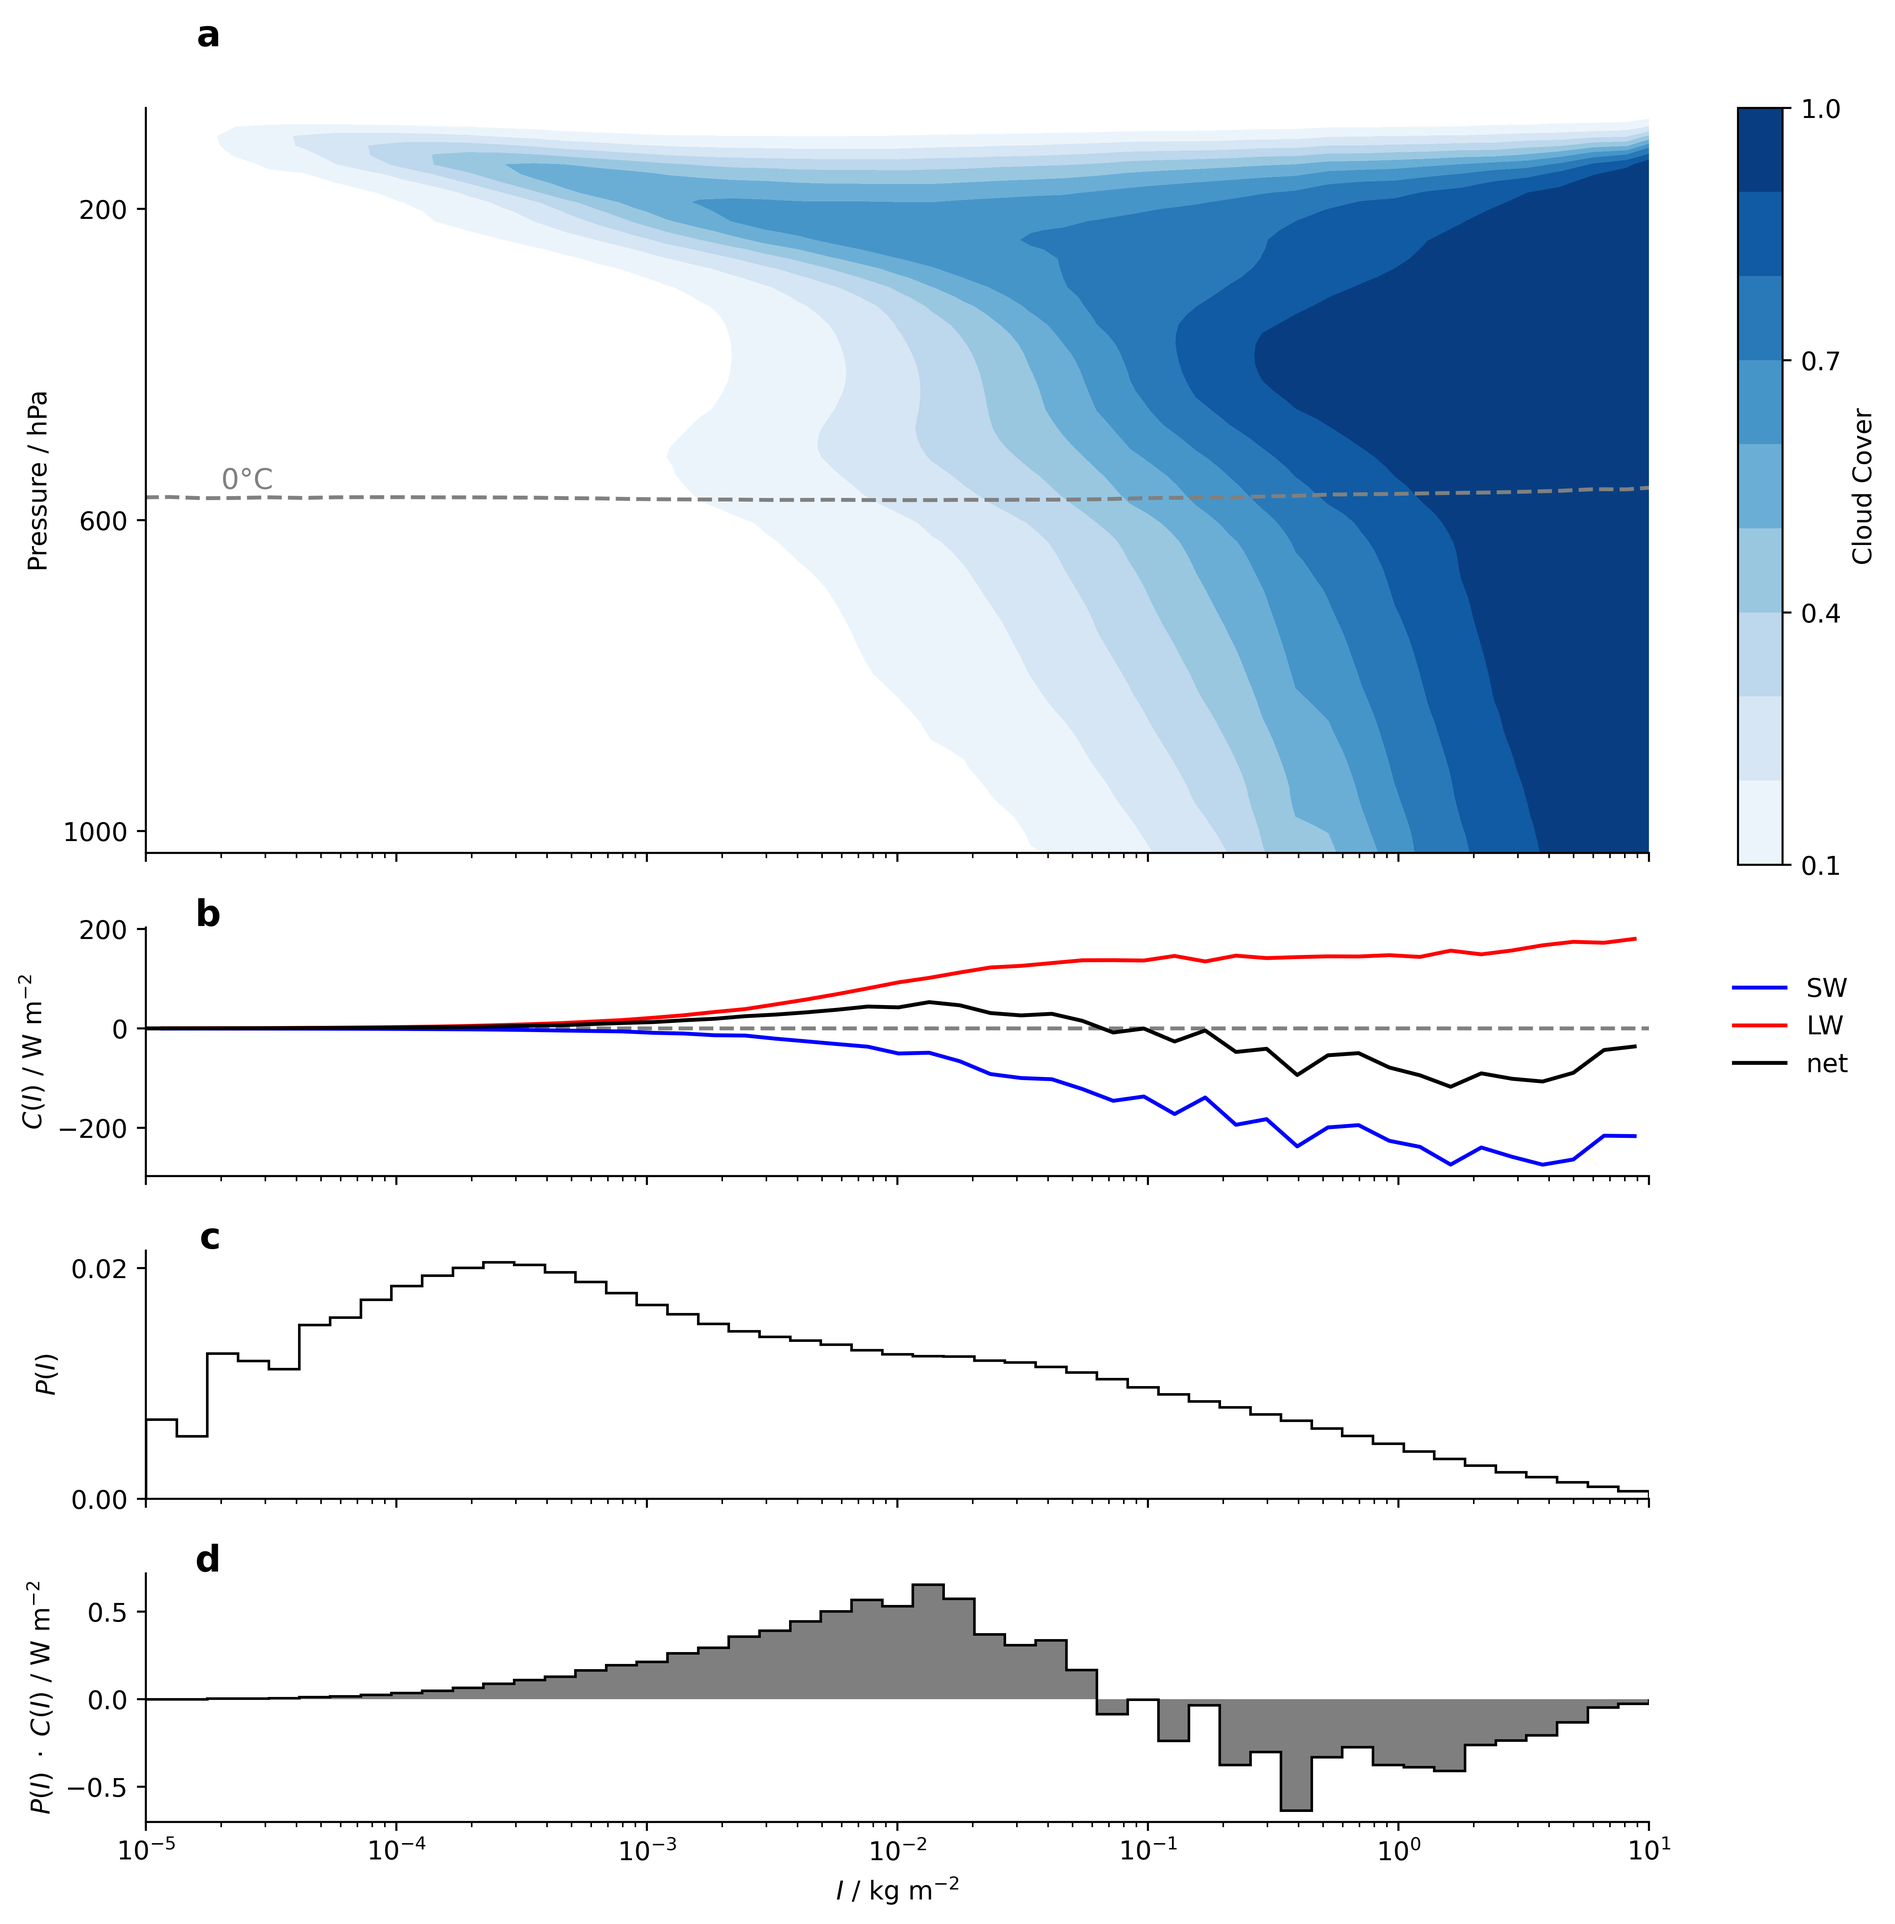
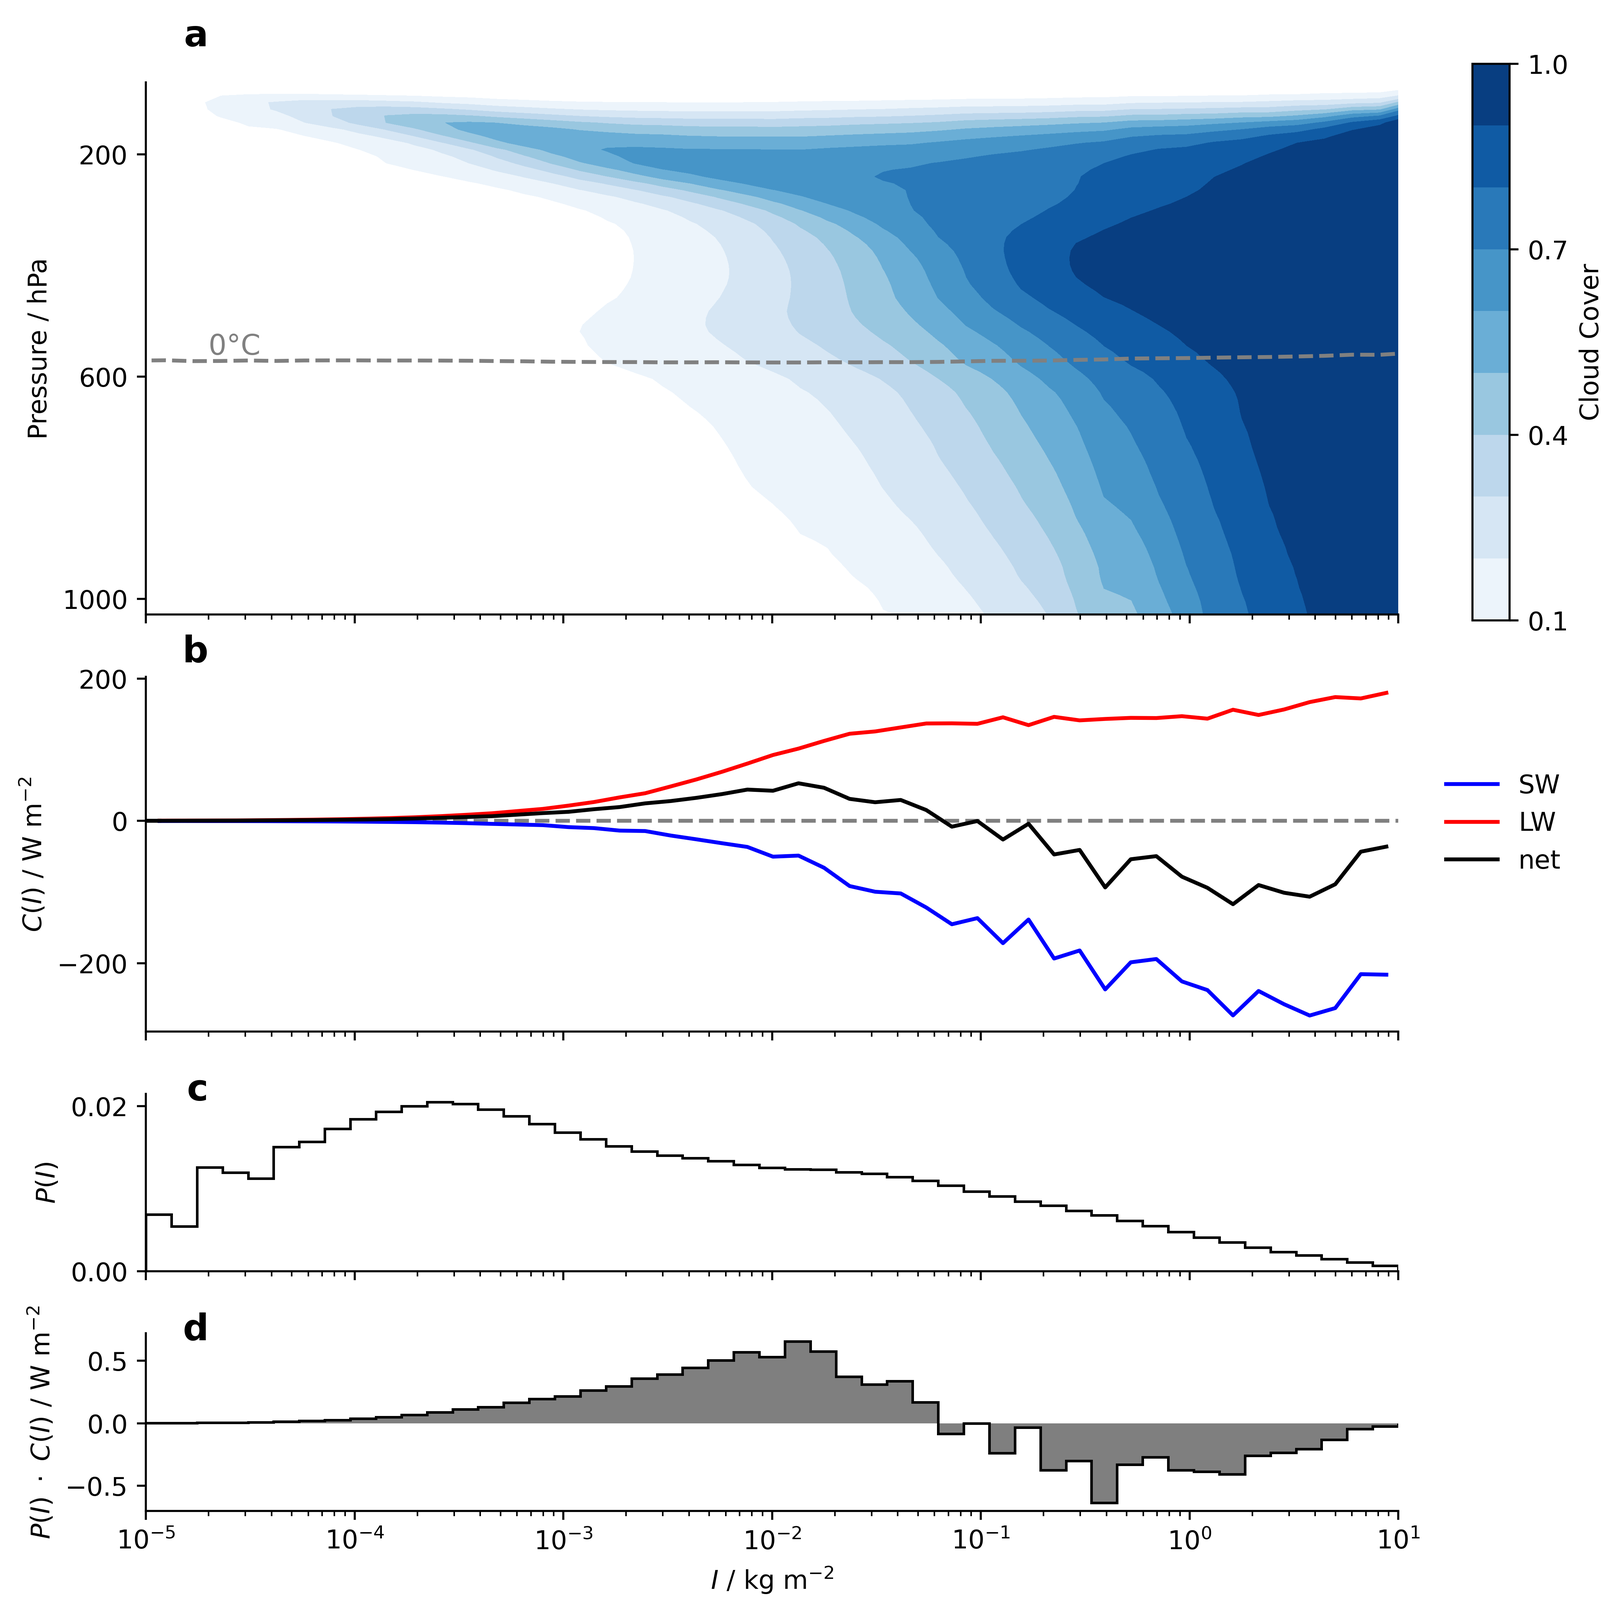
plot adjustemts cloud fraction and cre schematic

diff --git a/scripts/plot/paper/schematic.py b/scripts/plot/paper/schematic.py
@@ -28,14 +28,14 @@ cre_net_weighted = cre_sw_weighted + cre_lw_weighted
 
 def control_plot(ax):
     ax.spines[['top', 'right']].set_visible(False)
-    ax.spines[['bottom', 'left']].set_color('grey')
+    ax.spines[['bottom', 'left']].set_color('k')
     ax.spines[['bottom', 'left']].set_linewidth(2)
-    ax.set_xlabel("$I$ / kg $m^{-2}$", color='grey')
+    ax.set_xlabel("$I$ / kg $m^{-2}$", color='k')
     ax.set_xscale('log')
     ax.set_xlim(1e-5, 1e1)
     ax.set_xticks([1e-4, 1])
     # set color of xticks and labels to grey
-    ax.xaxis.set_tick_params(color='grey', labelcolor='grey')
+    ax.xaxis.set_tick_params(color='k', labelcolor='k')
     ax.xaxis.set_minor_locator(plt.NullLocator())
 
 net_cre = result['SW_cre'] + result['LW_cre']
@@ -50,18 +50,18 @@ fig, ax = plt.subplots(1, 1, figsize=(5, 3))
 control_plot(ax)
 ax.plot(net_cre.index, net_cre_smooth, linewidth=2, color='black') 
 ax.set_yticks([-50, 0, 50])
-ax.yaxis.set_tick_params(color='grey', labelcolor='grey')
+ax.yaxis.set_tick_params(color='k', labelcolor='k')
 ax.axhline(0, color='grey', linewidth=1, linestyle='--')
-ax.set_ylabel('$C(I)$ / W $m^{-2}$', color='grey')
+ax.set_ylabel('$C(I)$ / W $m^{-2}$', color='k')
 fig.savefig('plots/paper/cre_scheme.png', dpi=300, bbox_inches='tight')
 
 # %% IWP dist 
 fig, ax = plt.subplots(1, 1, figsize=(5, 3))
 control_plot(ax)
 ax.plot(IWP_points, hist_smooth, linewidth=2, color='black')
-ax.set_ylabel('$P(I)$', color='grey')
+ax.set_ylabel('$P(I)$', color='k')
 ax.set_yticks([0, 0.02])
-ax.yaxis.set_tick_params(color='grey', labelcolor='grey')
+ax.yaxis.set_tick_params(color='k', labelcolor='k')
 fig.savefig('plots/paper/iwp_scheme.png', dpi=300, bbox_inches='tight')
 
 
@@ -71,8 +71,8 @@ control_plot(ax)
 ax.fill_between(net_cre.index, cre_net_weighted_smooth, color='grey', alpha=0.5, edgecolor='none', hatch='//')
 ax.plot(net_cre.index, cre_net_weighted_smooth, linewidth=2, color='black')
 ax.set_yticks([-0.4, 0, 0.4])
-ax.yaxis.set_tick_params(color='grey', labelcolor='grey')
-ax.set_ylabel('$C(I) \cdot P(I)$ / W $m^{-2}$', color='grey')
+ax.yaxis.set_tick_params(color='k', labelcolor='k')
+ax.set_ylabel('$C(I) \cdot P(I)$ / W $m^{-2}$', color='k')
 fig.savefig('plots/paper/folded_cre_scheme.png', dpi=300, bbox_inches='tight')
 
 # %%

diff --git a/scripts/plot/paper/cloud_profile_iwp.py b/scripts/plot/paper/cloud_profile_iwp.py
@@ -68,7 +68,7 @@ hist = hist / n_cells
 
 
 # %% plot cloud occurence vs IWP percentiles
-fig, axes = plt.subplots(4, 1, figsize=(12, 12), height_ratios=[3, 1, 1, 1], sharex=True)
+fig, axes = plt.subplots(4, 1, figsize=(10, 10), height_ratios=[3, 2, 1, 1], sharex=True)
 
 # plot cloud fraction
 cf = axes[0].contourf(
@@ -113,6 +113,7 @@ axes[1].plot(
     color="k",
 )
 axes[1].set_ylabel("$C(I)$ / W m$^{-2}$")
+axes[1].set_yticks([-200, 0, 200])
 
 # plot IWP dist
 axes[2].stairs(hist, edges, label="IWP", color="black")
@@ -127,7 +128,7 @@ axes[3].set_ylabel("$P(I) ~ \cdot ~ C(I)$ / W m$^{-2}$")
 
 # add colorbar
 fig.subplots_adjust(right=0.8)
-cax = fig.add_axes([0.84, 0.54, 0.02, 0.34])
+cax = fig.add_axes([0.84, 0.59, 0.02, 0.3])
 cb = fig.colorbar(cf, cax=cax, label="Cloud Cover")
 cb.set_ticks([0.1, 0.4, 0.7, 1])
 
@@ -136,7 +137,7 @@ handles, labels = axes[1].get_legend_handles_labels()
 fig.legend(
     labels=labels,
     handles=handles,
-    bbox_to_anchor=(0.9, 0.5),
+    bbox_to_anchor=(0.9, 0.52),
     frameon=False,
 )
 
